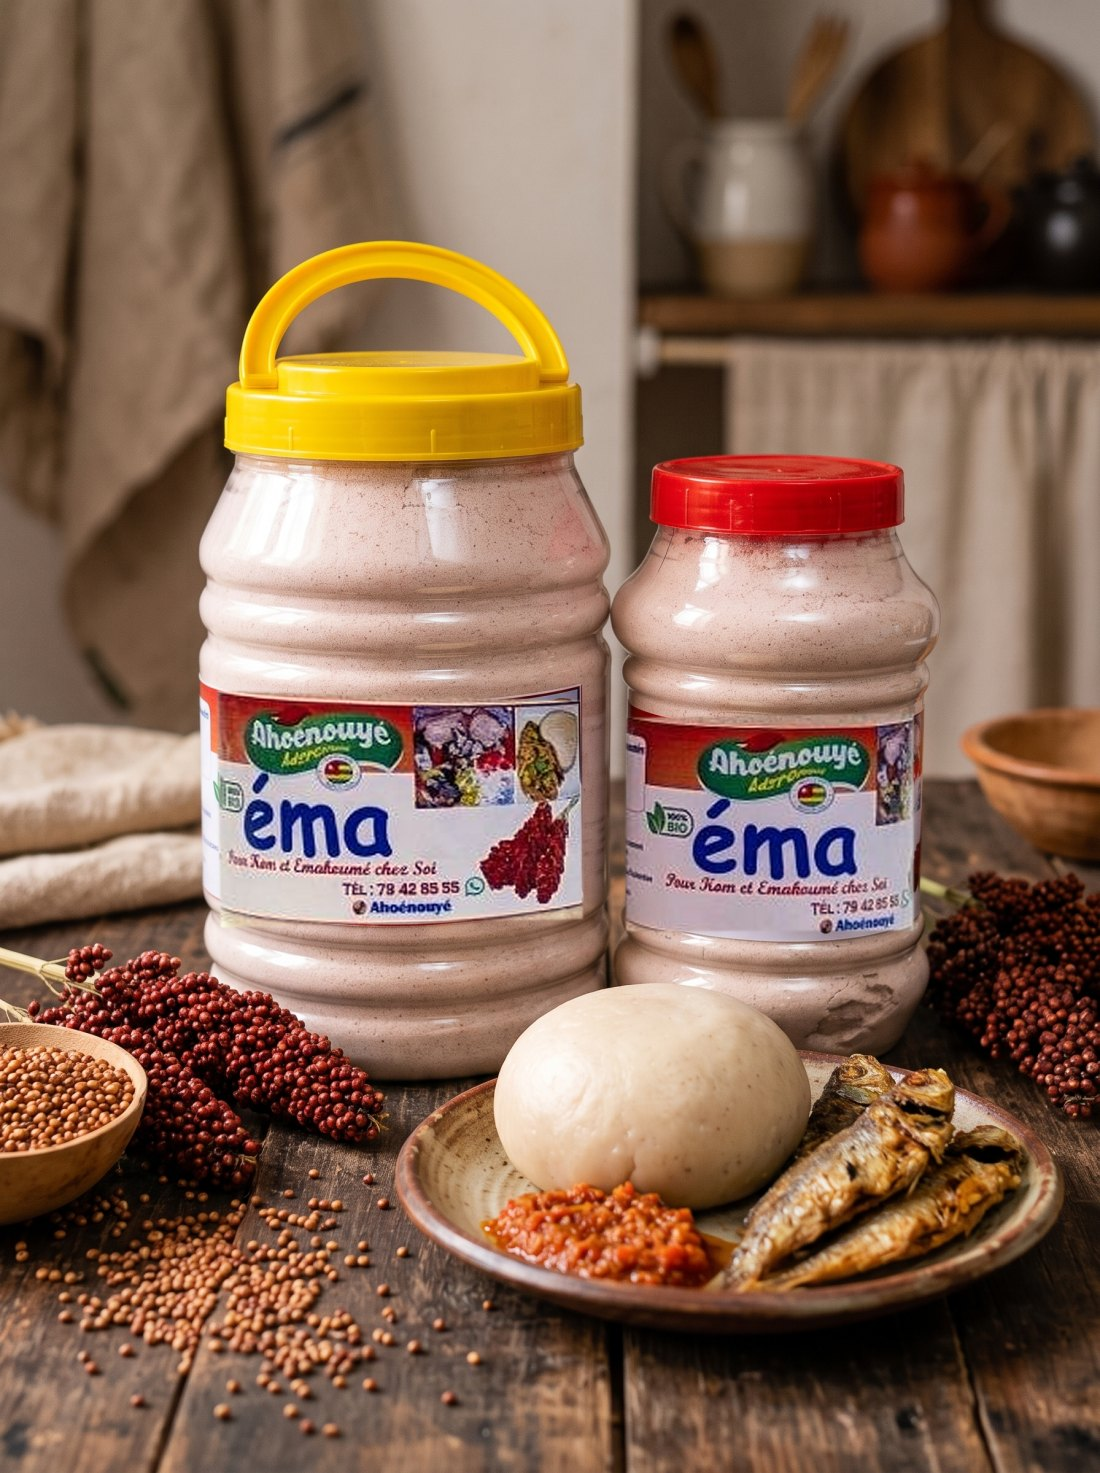
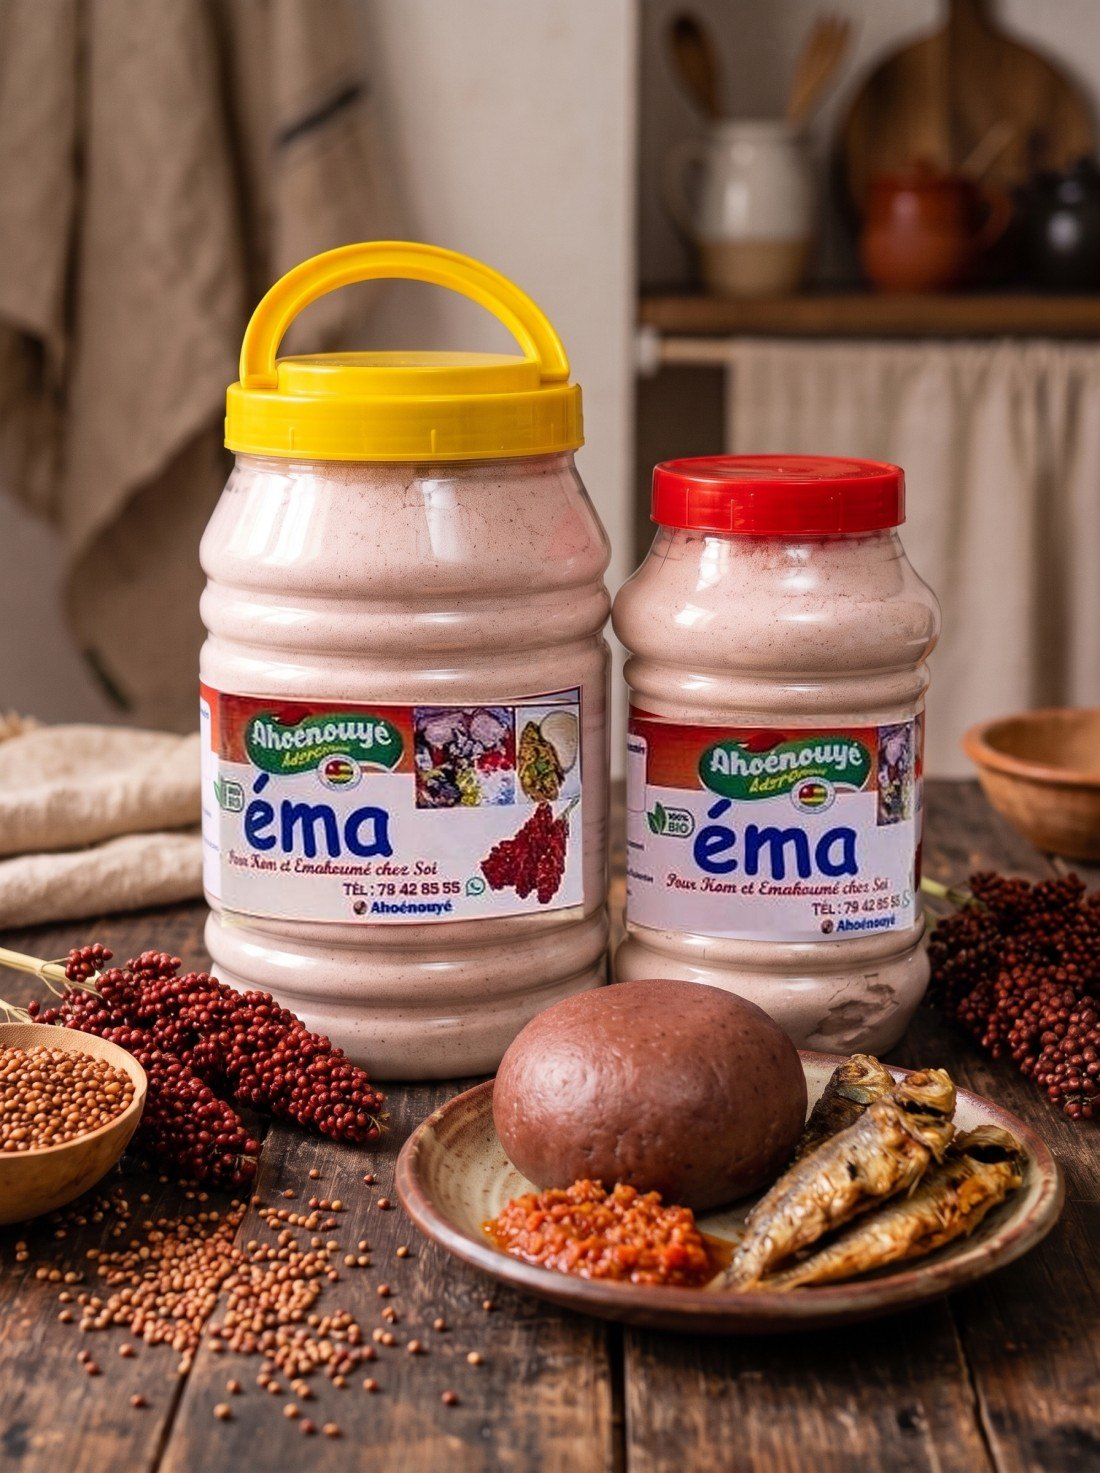
Ema du maïs : farine blanche crème, étiquette « du maïs » ; Ema du sorgho renommé Epokoumè (Farine fermentée du sorgho), kom rouge

diff --git a/index.html b/index.html
@@ -607,7 +607,7 @@ footer a:hover{color:#fff}
         </div>
       </article>
       <article class="card rv d2" data-cat="plat">
-        <div class="img"><img src="assets/ema.jpg" alt="Ema du maïs déshydraté pour kom" loading="lazy"><span class="pill r">Diaspora</span></div>
+        <div class="img"><img src="assets/ema.jpg?v=2" alt="Ema du maïs déshydraté, farine blanche crème, avec kom de maïs et poisson frit" loading="lazy"><span class="pill r">Diaspora</span></div>
         <div class="body">
           <h3>Ema du maïs</h3>
           <div class="for">Pour : kom, emakoumé</div>
@@ -617,15 +617,15 @@ footer a:hover{color:#fff}
         </div>
       </article>
       <article class="card rv d3" data-cat="plat">
-        <div class="img"><img src="assets/ema-sorgho.jpg" alt="Ema du sorgho, petit et grand pot, avec kom et poisson frit" loading="lazy"><span class="pill">2 formats</span></div>
+        <div class="img"><img src="assets/ema-sorgho.jpg?v=2" alt="Epokoumè, farine fermentée du sorgho, petit et grand pot, avec kom rouge et poisson frit" loading="lazy"><span class="pill">2 formats</span></div>
         <div class="body">
-          <h3>Ema du sorgho</h3>
+          <h3>Epokoumè (Farine fermentée du sorgho)</h3>
           <div class="for">Pour : kom, emakoumé</div>
           <p>L'ema à base de sorgho et de manioc, déshydraté pour voyager. Existe en petit et en grand pot.</p>
           <div class="price"><small class="from">dès</small> <b>2 000</b> <small>F CFA</small></div>
-          <fieldset class="opts" data-product="Ema du sorgho"><legend>Cochez les formats à commander</legend><label class="opt" for="ema-sorgho-f1"><input type="checkbox" id="ema-sorgho-f1" data-label="petit pot" data-price="2000"><span class="ot">Petit pot</span><b>2 000 F CFA</b></label><label class="opt" for="ema-sorgho-f2"><input type="checkbox" id="ema-sorgho-f2" data-label="grand pot" data-price="4000"><span class="ot">Grand pot</span><b>4 000 F CFA</b></label></fieldset>
+          <fieldset class="opts" data-product="Epokoumè (Farine fermentée du sorgho)"><legend>Cochez les formats à commander</legend><label class="opt" for="ema-sorgho-f1"><input type="checkbox" id="ema-sorgho-f1" data-label="petit pot" data-price="2000"><span class="ot">Petit pot</span><b>2 000 F CFA</b></label><label class="opt" for="ema-sorgho-f2"><input type="checkbox" id="ema-sorgho-f2" data-label="grand pot" data-price="4000"><span class="ot">Grand pot</span><b>4 000 F CFA</b></label></fieldset>
           <div class="opt-hint" role="status" hidden>Cochez au moins un format pour commander.</div>
-          <a class="order wa" data-msg="Bonjour Ahoénouyé, je souhaite commander Ema du sorgho." href="#"><span class="olabel">Commander</span> <svg viewBox="0 0 24 24" fill="none" stroke="currentColor" stroke-width="2.2"><path d="M5 12h14M13 6l6 6-6 6"/></svg></a>
+          <a class="order wa" data-msg="Bonjour Ahoénouyé, je souhaite commander Epokoumè (Farine fermentée du sorgho)." href="#"><span class="olabel">Commander</span> <svg viewBox="0 0 24 24" fill="none" stroke="currentColor" stroke-width="2.2"><path d="M5 12h14M13 6l6 6-6 6"/></svg></a>
         </div>
       </article>
       <article class="card rv" data-cat="bouillie">
